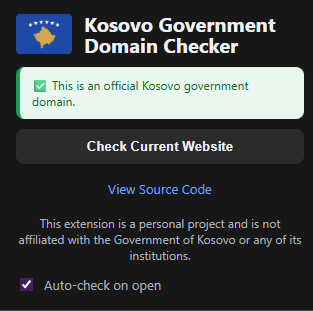
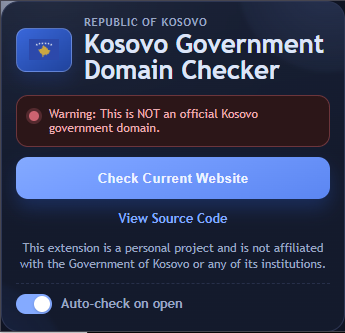
Update kosovo gov domain checker project

diff --git a/data/projects.ts b/data/projects.ts
@@ -796,19 +796,14 @@ const projects: Project[] = [
 
     postImages: [
       {
-        src: "/projects/kosovo-gov-site-verification/extension-result-en.png",
-        alt: "Showcasing the extension result in English language",
-        caption: "Showcasing the extension result in English language",
+        src: "/projects/kosovo-gov-site-verification/official-domain.png",
+        alt: "Showcasing the extension where the domain is official",
+        caption: "Showcasing the extension where the domain is official",
       },
       {
-        src: "/projects/kosovo-gov-site-verification/extension-result-al.png",
-        alt: "Showcasing the extension result in Albanian language",
-        caption: "Showcasing the extension result in Albanian language",
-      },
-      {
-        src: "/projects/kosovo-gov-site-verification/extension-result-sr.png",
-        alt: "Showcasing the extension result in Serbian language",
-        caption: "Showcasing the extension result in Serbian language",
+        src: "/projects/kosovo-gov-site-verification/unofficial-domain.png",
+        alt: "Showcasing the extension result where the domain is not official",
+        caption: "Showcasing the extension result where the domain is not official",
       },
       {
         src: "/projects/kosovo-gov-site-verification/extension-popup.png",
@@ -822,6 +817,11 @@ const projects: Project[] = [
         type: "Source Code",
         href: "https://github.com/amiraliuks/kosovo-gov-site-verification/releases",
         icon: FaGithub,
+      },
+      {
+        type: "Firefox Add-on",
+        href: "https://addons.mozilla.org/en-US/firefox/addon/kosovo-government-domain-check/",
+        icon: FaFirefox,
       },
     ],
   },